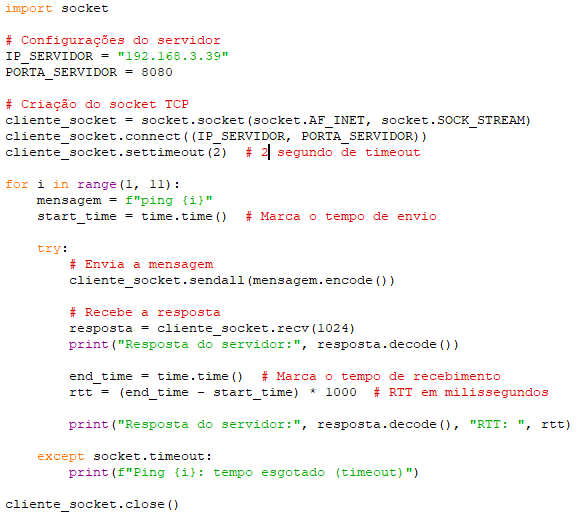
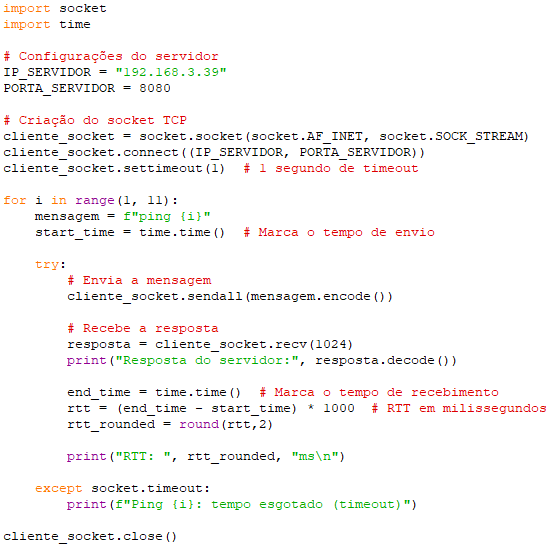
Finished_work
updated with new clients codes and prints of output

diff --git a/cliente_servidor TCP/TCP-Ping/client_ping_TCP.py b/cliente_servidor TCP/TCP-Ping/client_ping_TCP.py
@@ -1,4 +1,5 @@
 import socket
+import time
 
 # Configurações do servidor
 IP_SERVIDOR = "192.168.3.39"
@@ -7,7 +8,7 @@ PORTA_SERVIDOR = 8080
 # Criação do socket TCP
 cliente_socket = socket.socket(socket.AF_INET, socket.SOCK_STREAM)
 cliente_socket.connect((IP_SERVIDOR, PORTA_SERVIDOR))
-cliente_socket.settimeout(2)  # 2 segundo de timeout
+cliente_socket.settimeout(1)  # 1 segundo de timeout
 
 for i in range(1, 11):
     mensagem = f"ping {i}"
@@ -23,8 +24,9 @@ for i in range(1, 11):
 
         end_time = time.time()  # Marca o tempo de recebimento
         rtt = (end_time - start_time) * 1000  # RTT em milissegundos
+        rtt_rounded = round(rtt,2)
 
-        print("Resposta do servidor:", resposta.decode(), "RTT: ", rtt)
+        print("RTT: ", rtt_rounded, "ms\n")
 
     except socket.timeout:
         print(f"Ping {i}: tempo esgotado (timeout)")

diff --git a/cliente_servidor UDP/UDP-Ping/client_ping_UDP.py b/cliente_servidor UDP/UDP-Ping/client_ping_UDP.py
@@ -1,4 +1,5 @@
 import socket
+import time
 
 # Configurações do servidor
 IP_SERVIDOR = "192.168.3.39"
@@ -18,11 +19,13 @@ for i in range(1, 11):
 
         # Recebe a resposta
         resposta, _ = cliente_socket.recvfrom(1024)
-
+        print("Resposta do servidor:", resposta.decode())
+              
         end_time = time.time()  # Marca o tempo de recebimento
         rtt = (end_time - start_time) * 1000  # RTT em milissegundos
-
-        print("Resposta do servidor:", resposta.decode(), "RTT: ", rtt)
+        rtt_rounded = round(rtt,2)
+        
+        print("RTT: ", rtt_rounded, "ms\n")
 
     except socket.timeout:
         print(f"Ping {i}: tempo esgotado (timeout)")
